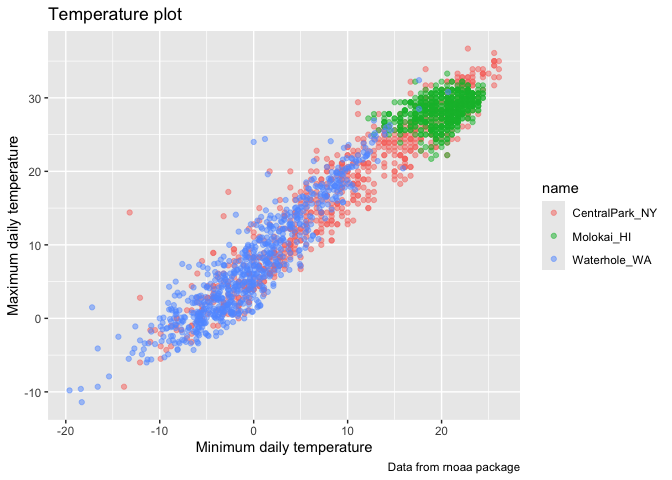
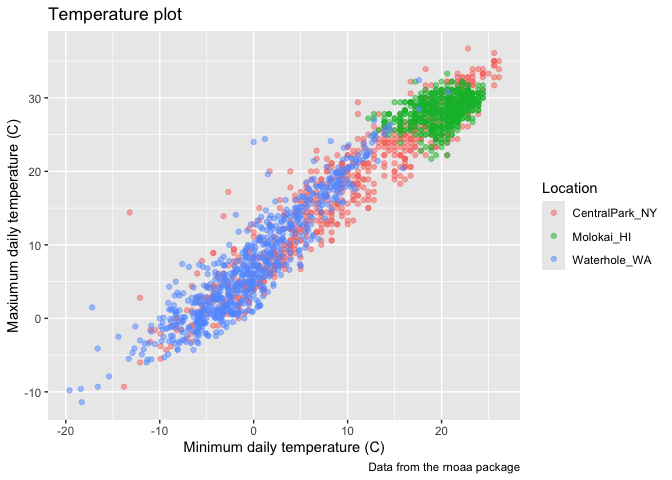
labels update

Changed region(s): [[0.25, 0.9062, 0.6562, 1.0], [0.0, 0.25, 0.0312, 0.6875], [0.8125, 0.375, 0.9062, 0.4062]]

diff --git a/viz_ii.md b/viz_ii.md
@@ -78,9 +78,10 @@ weather_df %>%
   geom_point(alpha = .5) +
   labs(
     title = "Temperature plot",
-    x = "Minimum daily temperature", 
-    y = "Maximum daily temperature",
-    caption = "Data from rnoaa package"
+    x = "Minimum daily temperature (C)",
+    y = "Maxiumum daily temperature (C)",
+    color = "Location", #图例的名称
+    caption = "Data from the rnoaa package"
   )
 ```
 
